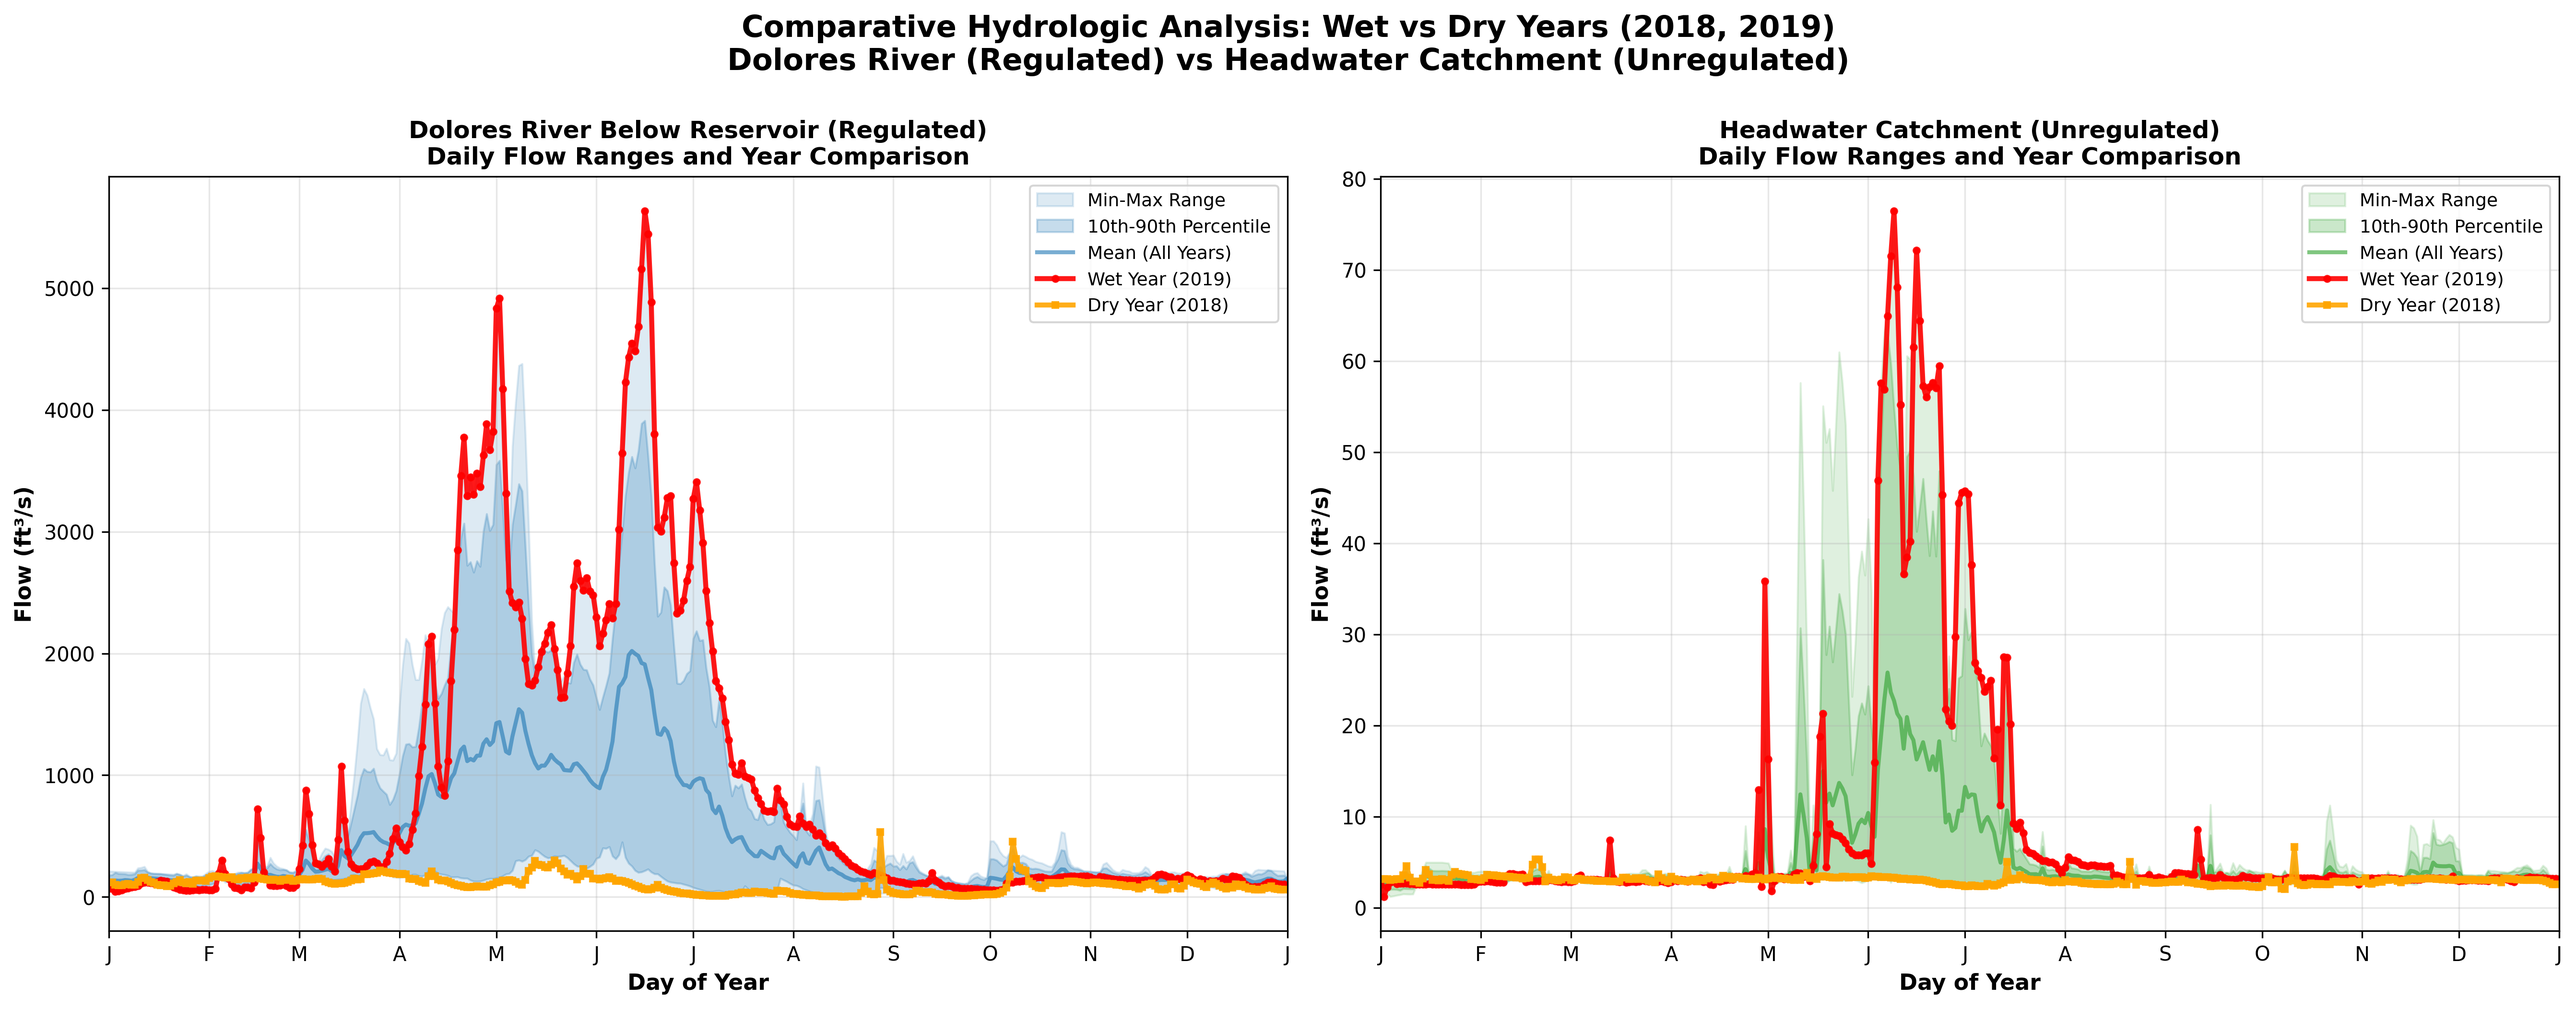
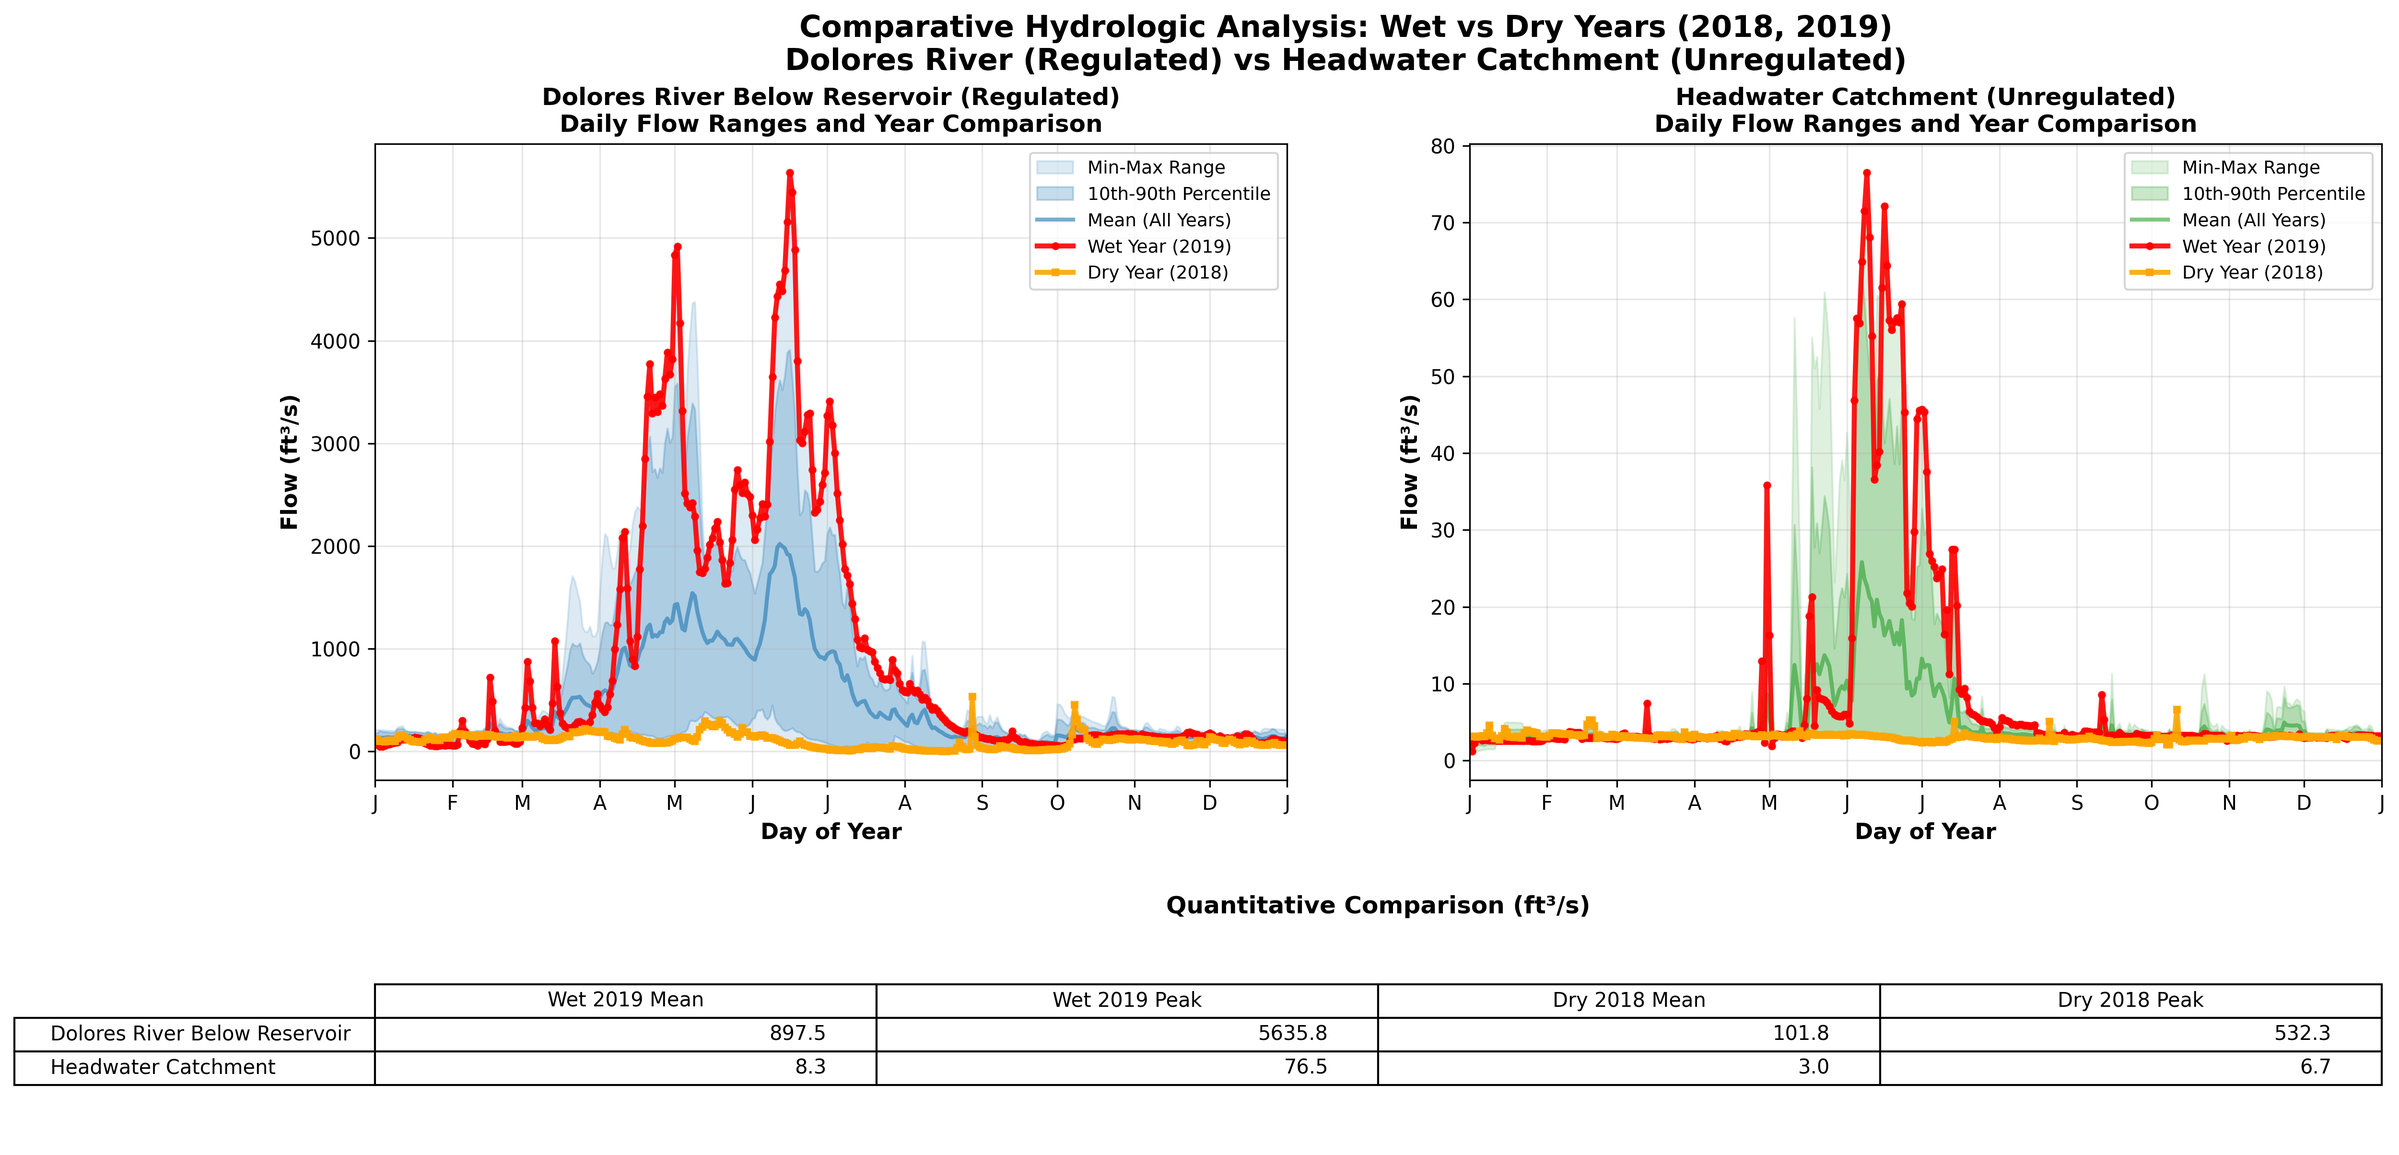
Add quantitative table to figure 06

diff --git a/comparative_analysis.py b/comparative_analysis.py
@@ -32,8 +32,12 @@ for station_id in ['09180000', '09183600']:
     df['DayOfYear'] = df['Datetime'].dt.dayofyear
     data_dict[station_id] = df
 
-# Create figure with 2 subplots (one per station)
-fig, axes = plt.subplots(1, 2, figsize=(18, 7))
+# Create figure with 2 subplots and a table panel
+fig = plt.figure(figsize=(18, 9))
+gs = fig.add_gridspec(2, 2, height_ratios=[3, 1], hspace=0.35)
+axes = [fig.add_subplot(gs[0, 0]), fig.add_subplot(gs[0, 1])]
+table_ax = fig.add_subplot(gs[1, :])
+table_ax.axis('off')
 
 # For each station
 for idx, (station_id, station_name) in enumerate([('09180000', 'Dolores River Below Reservoir (Regulated)'),
@@ -112,11 +116,48 @@ for idx, (station_id, station_name) in enumerate([('09180000', 'Dolores River Be
     ax.set_xticklabels(month_labels)
 
 
+# Build quantitative comparison table
+table_rows = []
+row_labels = []
+for station_id, station_name in [('09180000', 'Dolores River Below Reservoir (Regulated)'),
+                                 ('09183600', 'Headwater Catchment (Unregulated)')]:
+    df = data_dict[station_id]
+    wet_vals = df[df['Year'] == wet_year]['USGS_flow']
+    dry_vals = df[df['Year'] == dry_year]['USGS_flow']
+    table_rows.append([
+        f"{wet_vals.mean():.1f}",
+        f"{wet_vals.max():.1f}",
+        f"{dry_vals.mean():.1f}",
+        f"{dry_vals.max():.1f}",
+    ])
+    row_labels.append(station_name.replace(' (Regulated)', '').replace(' (Unregulated)', ''))
+
+col_labels = [
+    f"Wet {wet_year} Mean",
+    f"Wet {wet_year} Peak",
+    f"Dry {dry_year} Mean",
+    f"Dry {dry_year} Peak",
+]
+
+table_ax.text(0.5, 1.05, 'Quantitative Comparison (ft³/s)',
+              ha='center', va='bottom', fontsize=12, fontweight='bold',
+              transform=table_ax.transAxes)
+
+table = table_ax.table(
+    cellText=table_rows,
+    rowLabels=row_labels,
+    colLabels=col_labels,
+    loc='center'
+)
+table.auto_set_font_size(False)
+table.set_fontsize(10)
+table.scale(1, 1.4)
+
 # Overall figure title
 fig.suptitle(f'Comparative Hydrologic Analysis: Wet vs Dry Years ({dry_year}, {wet_year})\nDolores River (Regulated) vs Headwater Catchment (Unregulated)',
-            fontsize=15, fontweight='bold', y=0.995)
+            fontsize=15, fontweight='bold', y=0.98)
 
-plt.tight_layout()
+plt.tight_layout(rect=[0, 0, 1, 0.95])
 plt.savefig('06_wet_dry_comparative_analysis.png', dpi=300, bbox_inches='tight')
 print("\n" + "="*80)
 print("Figure saved: 06_wet_dry_comparative_analysis.png")
